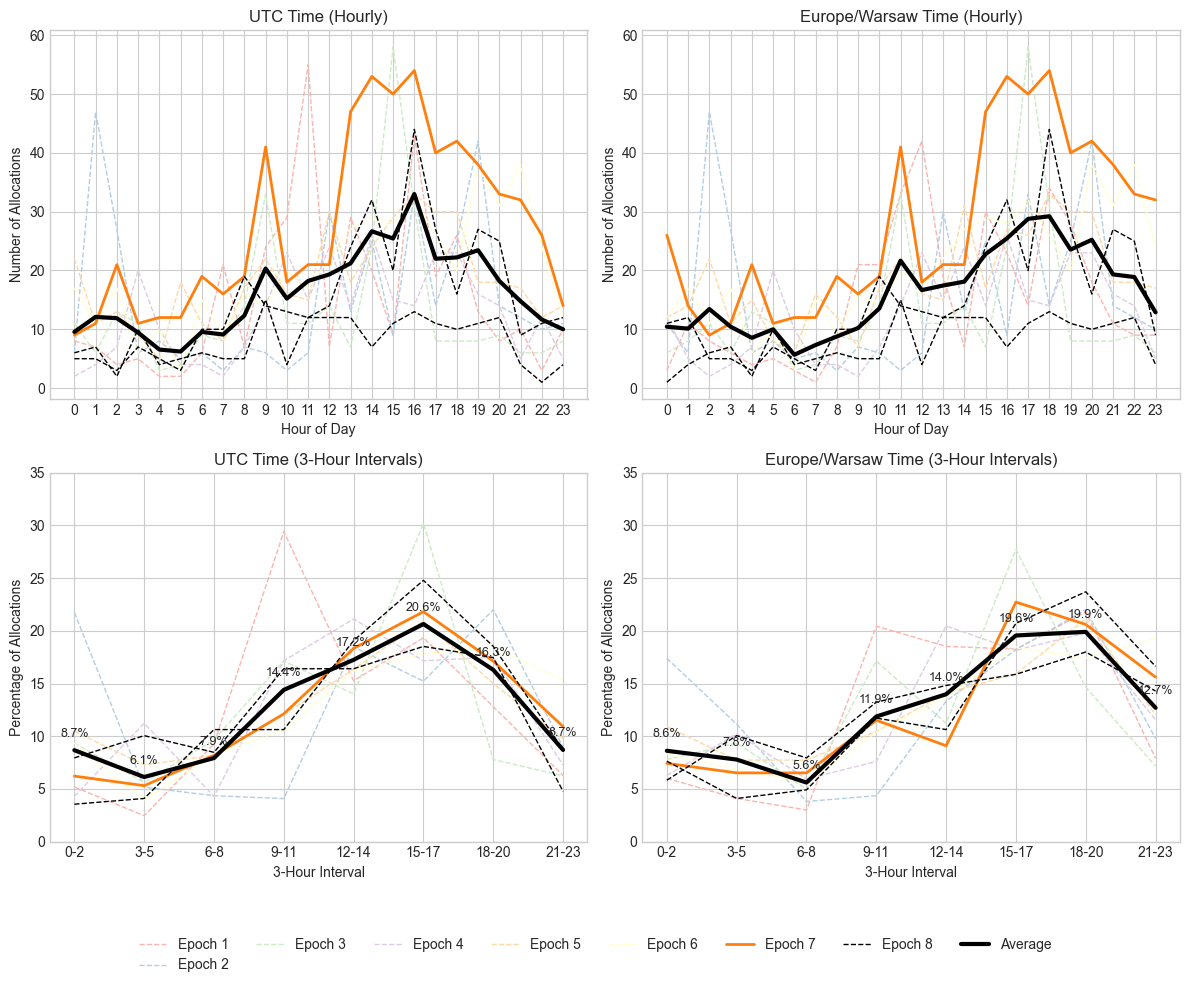
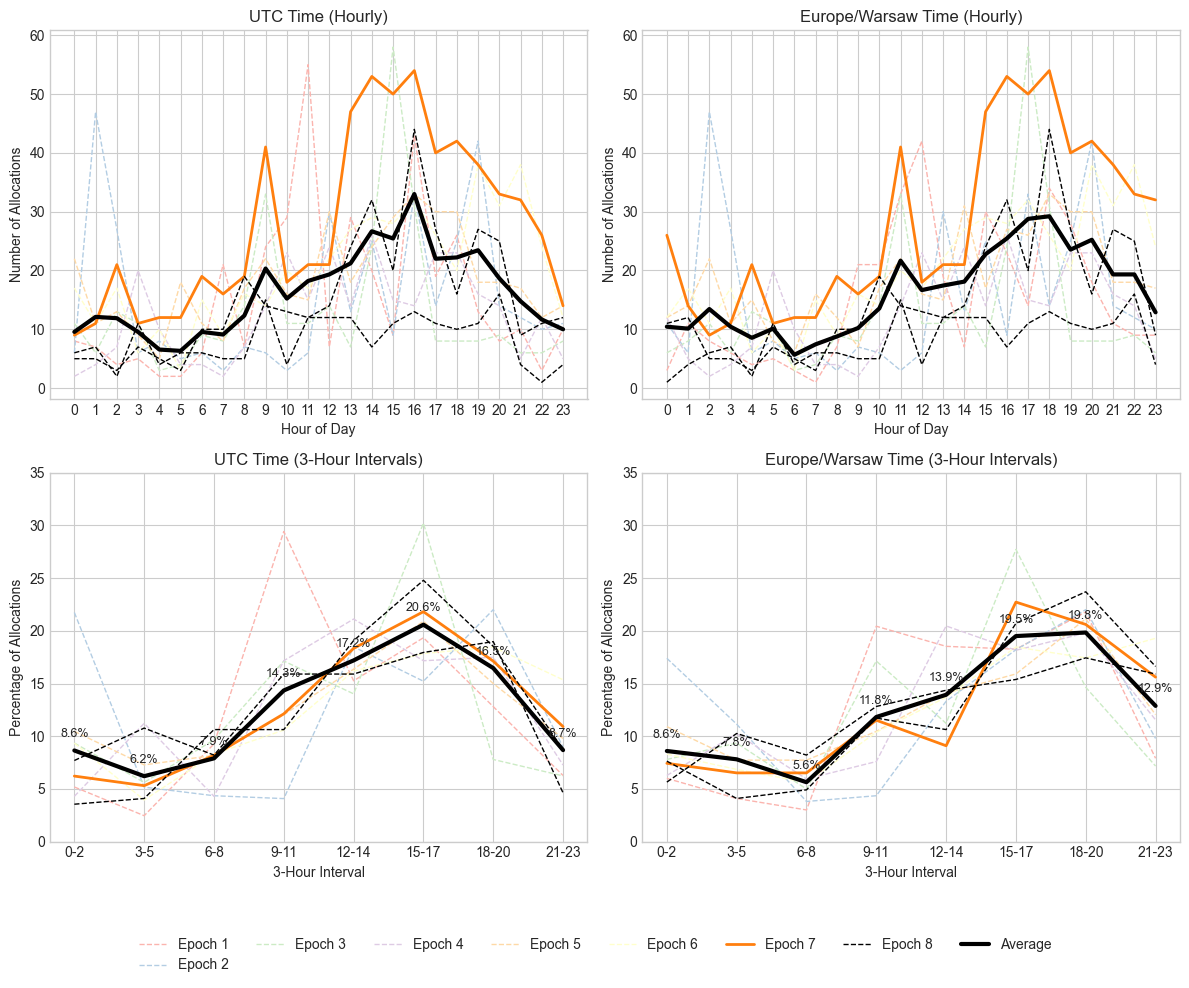
update

diff --git a/_includes/e9/table_amounts.html b/_includes/e9/table_amounts.html
@@ -86,10 +86,10 @@
     <tr>
       <td style="width: 1%; text-align: center; padding: 8px; word-wrap: break-word; white-space: normal;">9</td>
       <td style="width: 1%; text-align: center; padding: 8px; word-wrap: break-word; white-space: normal;">173.609</td>
-      <td style="width: 1%; text-align: center; padding: 8px; word-wrap: break-word; white-space: normal;">158.765</td>
-      <td style="width: 1%; text-align: center; padding: 8px; word-wrap: break-word; white-space: normal;">3.398</td>
-      <td style="width: 1%; text-align: center; padding: 8px; word-wrap: break-word; white-space: normal;">8.6</td>
-      <td style="width: 1%; text-align: center; padding: 8px; word-wrap: break-word; white-space: normal;">91.4</td>
+      <td style="width: 1%; text-align: center; padding: 8px; word-wrap: break-word; white-space: normal;">162.362</td>
+      <td style="width: 1%; text-align: center; padding: 8px; word-wrap: break-word; white-space: normal;">3.404</td>
+      <td style="width: 1%; text-align: center; padding: 8px; word-wrap: break-word; white-space: normal;">6.5</td>
+      <td style="width: 1%; text-align: center; padding: 8px; word-wrap: break-word; white-space: normal;">93.5</td>
       <td style="width: 1%; text-align: center; padding: 8px; word-wrap: break-word; white-space: normal;">2.1</td>
     </tr>
   </tbody>

diff --git a/_includes/e9/table_users.html b/_includes/e9/table_users.html
@@ -68,9 +68,9 @@
     <tr>
       <td style="width: 1%; text-align: center; padding: 8px; word-wrap: break-word; white-space: normal;">9</td>
       <td style="width: 1%; text-align: center; padding: 8px; word-wrap: break-word; white-space: normal;">1034</td>
-      <td style="width: 1%; text-align: center; padding: 8px; word-wrap: break-word; white-space: normal;">188</td>
-      <td style="width: 1%; text-align: center; padding: 8px; word-wrap: break-word; white-space: normal;">169</td>
-      <td style="width: 1%; text-align: center; padding: 8px; word-wrap: break-word; white-space: normal;">18.2</td>
+      <td style="width: 1%; text-align: center; padding: 8px; word-wrap: break-word; white-space: normal;">194</td>
+      <td style="width: 1%; text-align: center; padding: 8px; word-wrap: break-word; white-space: normal;">171</td>
+      <td style="width: 1%; text-align: center; padding: 8px; word-wrap: break-word; white-space: normal;">18.8</td>
     </tr>
   </tbody>
 </table>

diff --git a/_includes/e9/table_cohorts.html b/_includes/e9/table_cohorts.html
@@ -76,7 +76,7 @@
     </tr>
     <tr>
       <td style="width: 1%; text-align: center; padding: 8px; word-wrap: break-word; white-space: normal;">9</td>
-      <td style="width: 1%; text-align: center; padding: 8px; word-wrap: break-word; white-space: normal;">47</td>
+      <td style="width: 1%; text-align: center; padding: 8px; word-wrap: break-word; white-space: normal;">48</td>
       <td style="width: 1%; text-align: center; padding: 8px; word-wrap: break-word; white-space: normal;">8</td>
       <td style="width: 1%; text-align: center; padding: 8px; word-wrap: break-word; white-space: normal;">5</td>
       <td style="width: 1%; text-align: center; padding: 8px; word-wrap: break-word; white-space: normal;">25</td>

diff --git a/_includes/e9/current_datetime.html b/_includes/e9/current_datetime.html
@@ -7,6 +7,6 @@
     <title>Current Date and Time</title>
 </head>
 <body>
-    <p>Last update: 2025-10-20 21:49:49</p>
+    <p>Last update: 2025-10-21 08:30:49</p>
 </body>
 </html>
